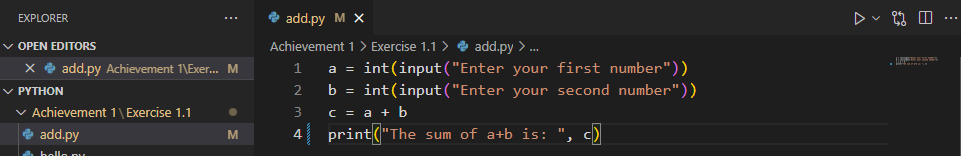
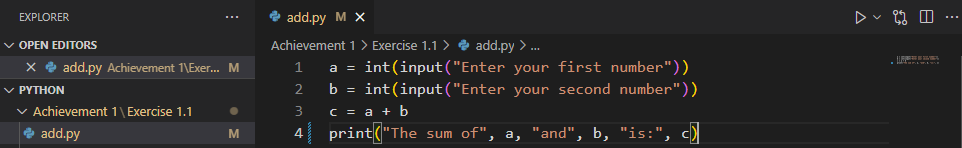
Updated

diff --git a/Achievement 1/Exercise 1.1/add.py b/Achievement 1/Exercise 1.1/add.py
@@ -1,4 +1,4 @@
 a = int(input("Enter your first number"))
 b = int(input("Enter your second number"))
 c = a + b
-print("The sum of a+b is: ", c)
+print("The sum of", a, "and", b, "is:", c)
